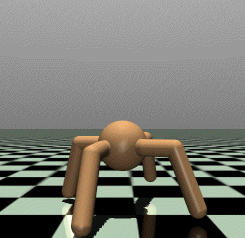
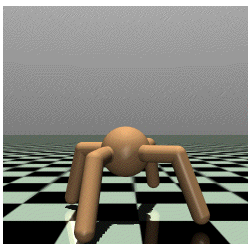
Adjust ImagSize

Changed region(s): [[0.0, 0.0, 1.0, 1.0]]

diff --git a/helper.py b/helper.py
@@ -1,0 +1,12 @@
+from PIL import Image
+
+target_size = (250, 250)  # width, height
+
+for i, path in enumerate(["imgs/ant.png", "imgs/hc.png", "imgs/hopper.png"]):
+    img = Image.open(path)
+    # Center crop
+    w, h = img.size
+    left = (w - target_size[0]) // 2
+    top = (h - target_size[1]) // 2
+    cropped = img.crop((left, top, left + target_size[0], top + target_size[1]))
+    cropped.save(f"{i+1}.png")
